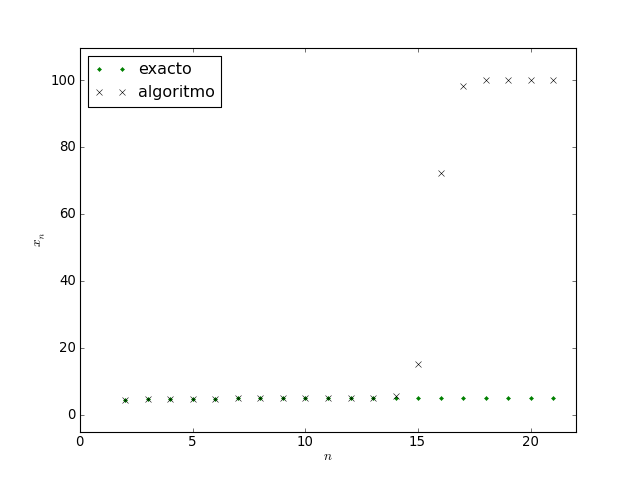
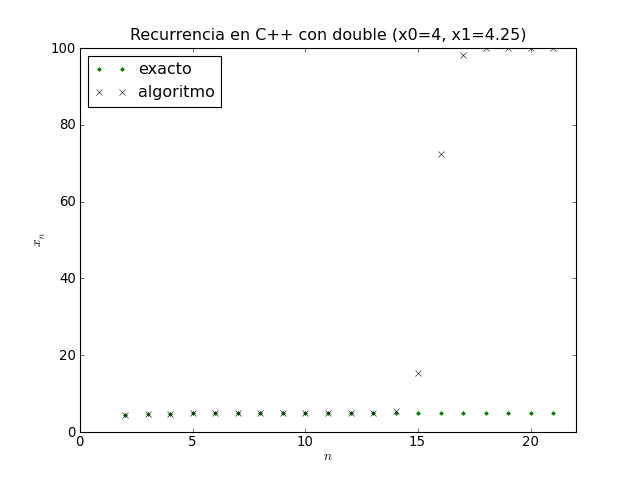
graficos reloaded

diff --git a/trunk/tp1/plot_xn.py b/trunk/tp1/plot_xn.py
@@ -8,6 +8,7 @@ import subprocess
 parser = OptionParser()
 parser.add_option("-c", "--compare", dest="x0x1",help="Compare to exact result")
 parser.add_option("-o", "--out", dest="filename",help="Save PNG to file")
+parser.add_option("-t", "--title", dest="title",help="Titulo del Grafico")
 parser.add_option("-q", action="store_false", dest="show", default=True, help="Don't show output")
 (options, args) = parser.parse_args()
 
@@ -47,5 +48,6 @@ p10=(max(ys)-min(ys))*.1
 #ylim(min(ys)-p10,max(ys)+p10)
 xlim(0,len(xs)+2)
 legend(loc=0)
+if options.title: title(options.title)
 if options.filename: savefig(options.filename,dpi=640./8)
 if options.show: show()
